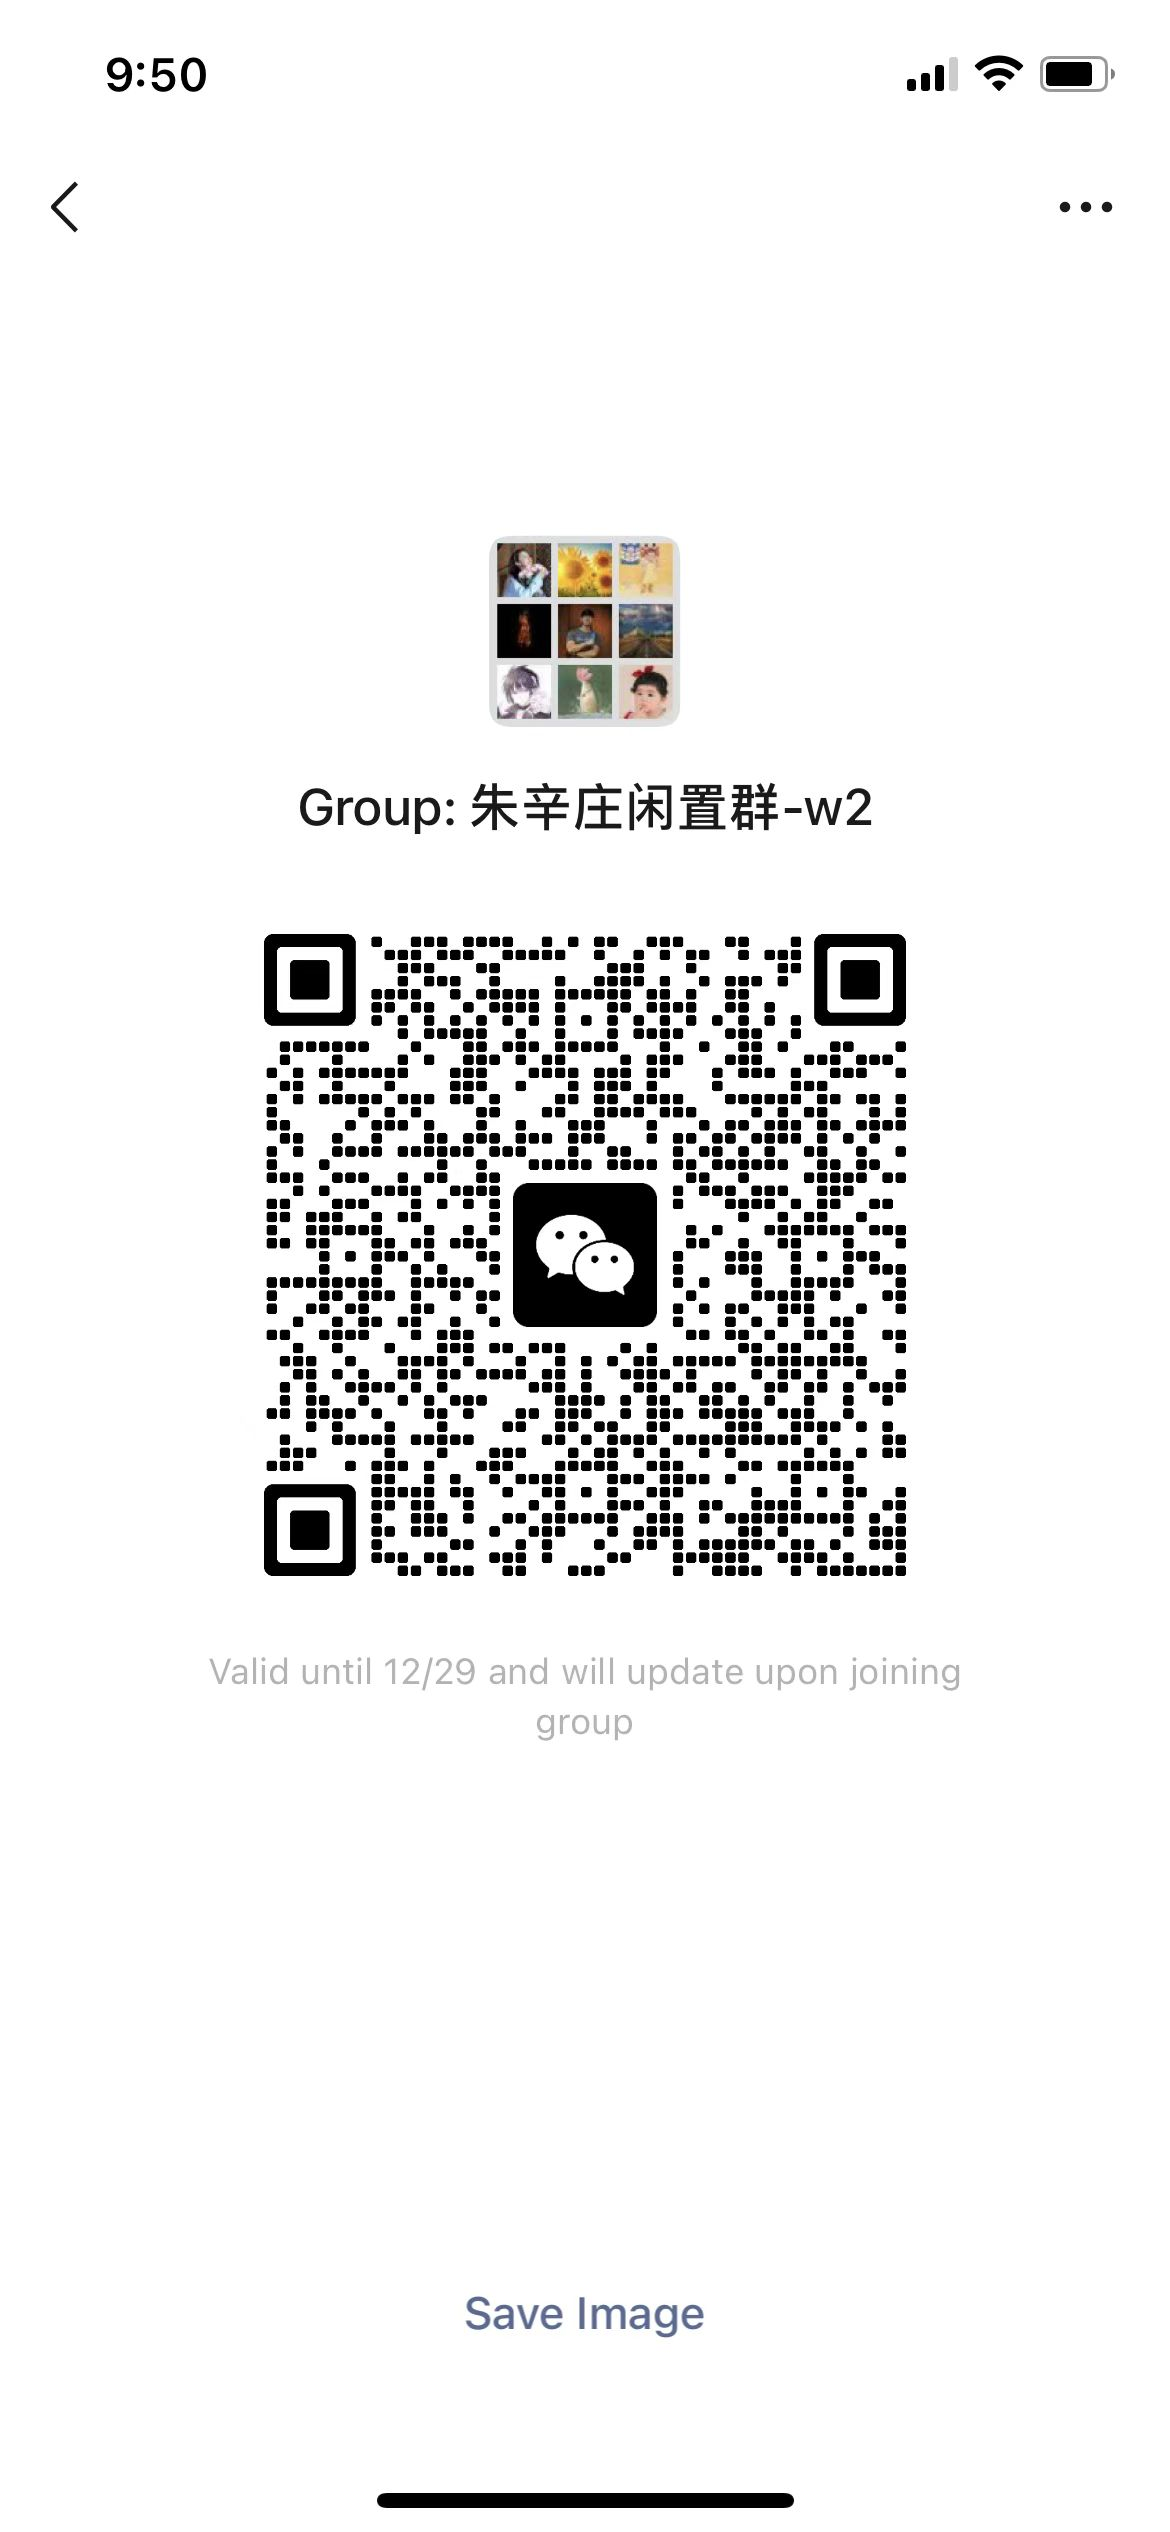
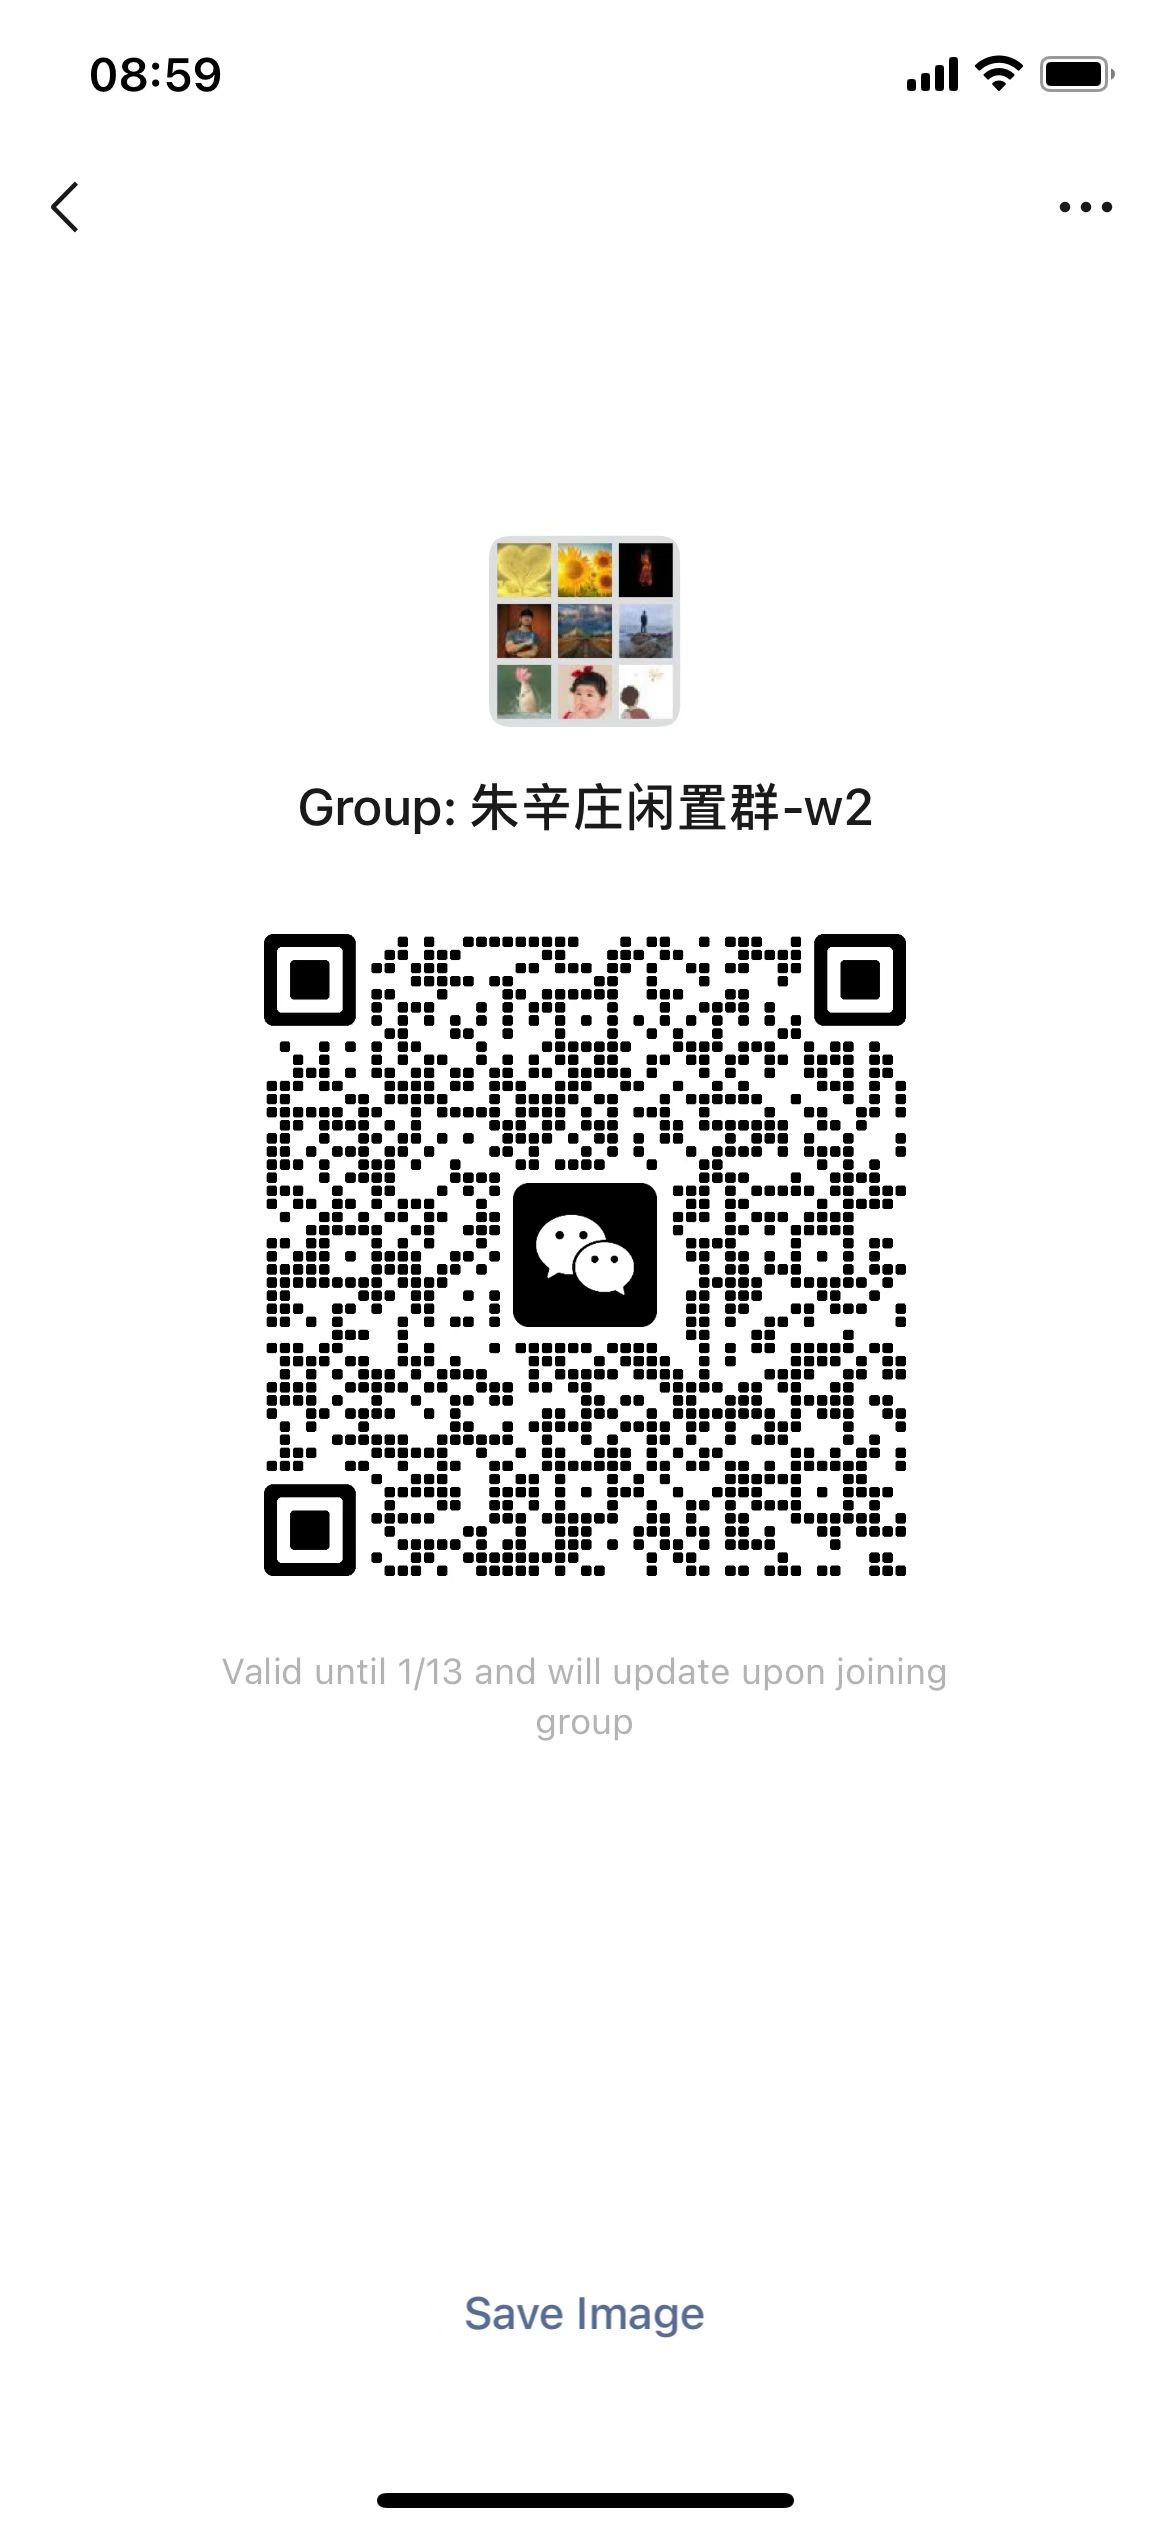
change groupCode

diff --git a/src/pages/groupCode/index.jsx b/src/pages/groupCode/index.jsx
@@ -40,12 +40,16 @@ export default class Index extends Component {
       type:'',
       imgId:'',
       title:'',
+      sort:'',
+      topCon:'',
+      titleCon:'',
+      footCon:'',
     }
   }
   componentDidMount(){
     let url = window.location.href
     let result = getUrlCode(url,true)
-    const { code, type } = result || {}
+    const { sort, type } = result || {}
     let imgId = ''
     let title = ''
     Array.isArray(communityList) && communityList.forEach( (v,i) =>{
@@ -54,18 +58,35 @@ export default class Index extends Component {
         title = v.name
       }
     })
+    let topCon = '闲置物品变现'
+    let titleCon = ''
+    let footCon = ''
+    if(sort == 0){
+      topCon = '闲置物品变现'
+      titleCon = title + '闲置群'
+      footCon = '淘点物美价廉的宝贝'
+    }else if( sort == 1){
+      topCon = '找对象，找麻友，找舞伴'
+      titleCon = title + '社区交友'
+      footCon = '一起健身，一起遛娃，一起喝酒'
+
+    }
     this.setState({
       type,
       imgId,
       title,
+      sort,
+      topCon,
+      titleCon,
+      footCon,
     })
-    this.getCode(type)
+    this.getCode(type,sort)
     
   }
 
-  getCode(type){
+  getCode(type,sort){
     console.log('getCode')
-    var url = 'https://mengshikejiwang.top/#/pages/group/index?type=' + type 
+    var url = 'https://mengshikejiwang.top/#/pages/group/index?type=' + type + '&sort=' + sort
     let that = this
     qrcode.toDataURL(url, function (err, qrCodeData) {
       if (err) throw err;
@@ -87,57 +108,59 @@ export default class Index extends Component {
  
 
   render () {
-    const { imgSrc, title } = this.state
+    const { imgSrc, title, topCon,
+      titleCon,
+      footCon, } = this.state
     console.log('title', title)
     
     return (
       <View className='groupCodePage'>
         <View className='codeBox'>
           <View className='codeTop'>
-            闲置物品变现
+          {topCon}
           </View>
           <View className='codeTitle'>
-            {title}闲置群
+            {titleCon}
           </View>
           <Image className='codeImg' src={imgSrc}></Image>
           <View className='codeFoot'>
-            淘点物美价廉的宝贝
+          {footCon}
           </View> 
         </View>
         <View className='codeBox'>
           <View className='codeTop'>
-            闲置物品变现
+          {topCon}
           </View>
           <View className='codeTitle'>
-            {title}闲置群
+            {titleCon}
           </View>
           <Image className='codeImg' src={imgSrc}></Image>
           <View className='codeFoot'>
-            淘点物美价廉的宝贝
+          {footCon}
           </View> 
         </View>
         <View className='codeBox'>
           <View className='codeTop'>
-            闲置物品变现
+          {topCon}
           </View>
           <View className='codeTitle'>
-            {title}闲置群
+            {titleCon}
           </View>
           <Image className='codeImg' src={imgSrc}></Image>
           <View className='codeFoot'>
-            淘点物美价廉的宝贝
+          {footCon}
           </View> 
         </View>
         <View className='codeBox'>
           <View className='codeTop'>
-            闲置物品变现
+          {topCon}
           </View>
           <View className='codeTitle'>
-            {title}闲置群
+            {titleCon}
           </View>
           <Image className='codeImg' src={imgSrc}></Image>
           <View className='codeFoot'>
-            淘点物美价廉的宝贝
+          {footCon}
           </View> 
         </View>
       </View>
